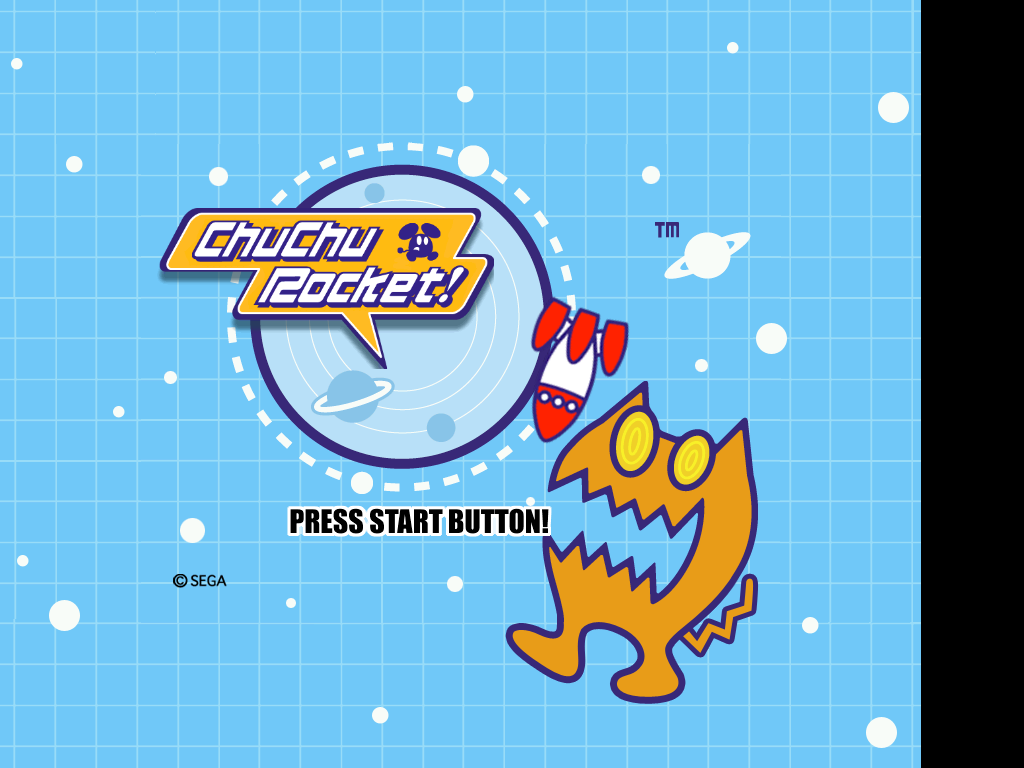
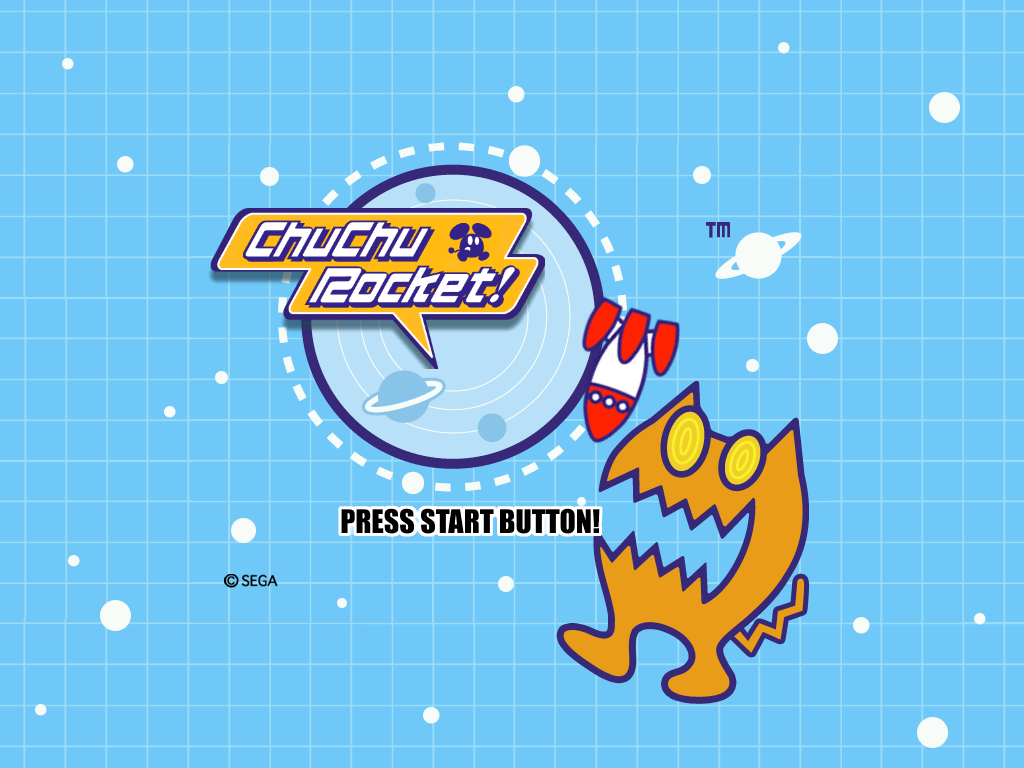
Capture the full title screen and display it at half width

diff --git a/game/app/main.cpp b/game/app/main.cpp
@@ -1581,6 +1581,9 @@ struct BattleMode : Screen {
 static int saveFrame(SDL_Renderer* renderer, const char* path) {
     int width, height;
     if (SDL_GetRendererOutputSize(renderer, &width, &height) < 0) return 1;
+    // SDL2 reads back the current viewport. Capture the full output even if
+    // the screen changed its logical size after drawing, as TitleMode does.
+    if (SDL_RenderSetLogicalSize(renderer, 0, 0) < 0) return 1;
     SDL_Surface* surface = SDL_CreateRGBSurfaceWithFormat(0, width, height, 32, SDL_PIXELFORMAT_ARGB8888);
     if (!surface) return 1;
     const bool saved = SDL_RenderReadPixels(renderer, nullptr, SDL_PIXELFORMAT_ARGB8888,

diff --git a/docs/roadmap.md b/docs/roadmap.md
@@ -4,6 +4,7 @@ See the [current phase summary](../README.md#status-and-plan) for what is in pla
 
 ## Playfield rendering (2026-11-14)
 
+- Fixed headless screenshot readback after the title resets the gameplay viewport. The old 1024 × 768 capture had only 921 drawn columns. Readback now covers all 1024 columns at 4:3 and retains equal 160-pixel side bars at 1280 × 720. Replaced the README capture and set its display width to 50%.
 - HD 1.0 registers the board at priority -780, arrows at -770 and cursor brackets at -760. Cats, mice and rockets share a draw list sorted by integer world Z, with the cursor ring at priority 700. The port now follows these playfield layers and locates puzzle rockets by their actual cells.
 - The iPad composes horizontal and vertical wall rows in alternation. The wall calls for all 25 free-for-all and 25 team preview cases matched the Dreamcast board data and the positions now used by the renderer. The Puzzle and Battle captures confirm visible top and left overhangs and all four outside corner joins.
 - The Battle Settings preview now composes the original 832 × 640 RGBA4444 texture from the locally extracted iPad atlas and Dreamcast boards. The floor copy, quantized object blends, wall joins and random-stage board match all 50 original iPad uploads byte for byte (`tools/battle_preview_diff.py`). Headless captures exercised the Settings pane in free-for-all and team, including the random choice. Next, connect the verified Settings and Players panes to the live Battle menu route.

diff --git a/README.md b/README.md
@@ -4,7 +4,7 @@
 
 ### Work-in-progress screenshots
 
-![Title screen with the Dreamcast logo and iPad background](docs/screenshots/title-wip.png)
+<img src="docs/screenshots/title-wip.png" width="50%" alt="Title screen with the Dreamcast logo and iPad background">
 
 | Puzzle | Battle |
 | --- | --- |
